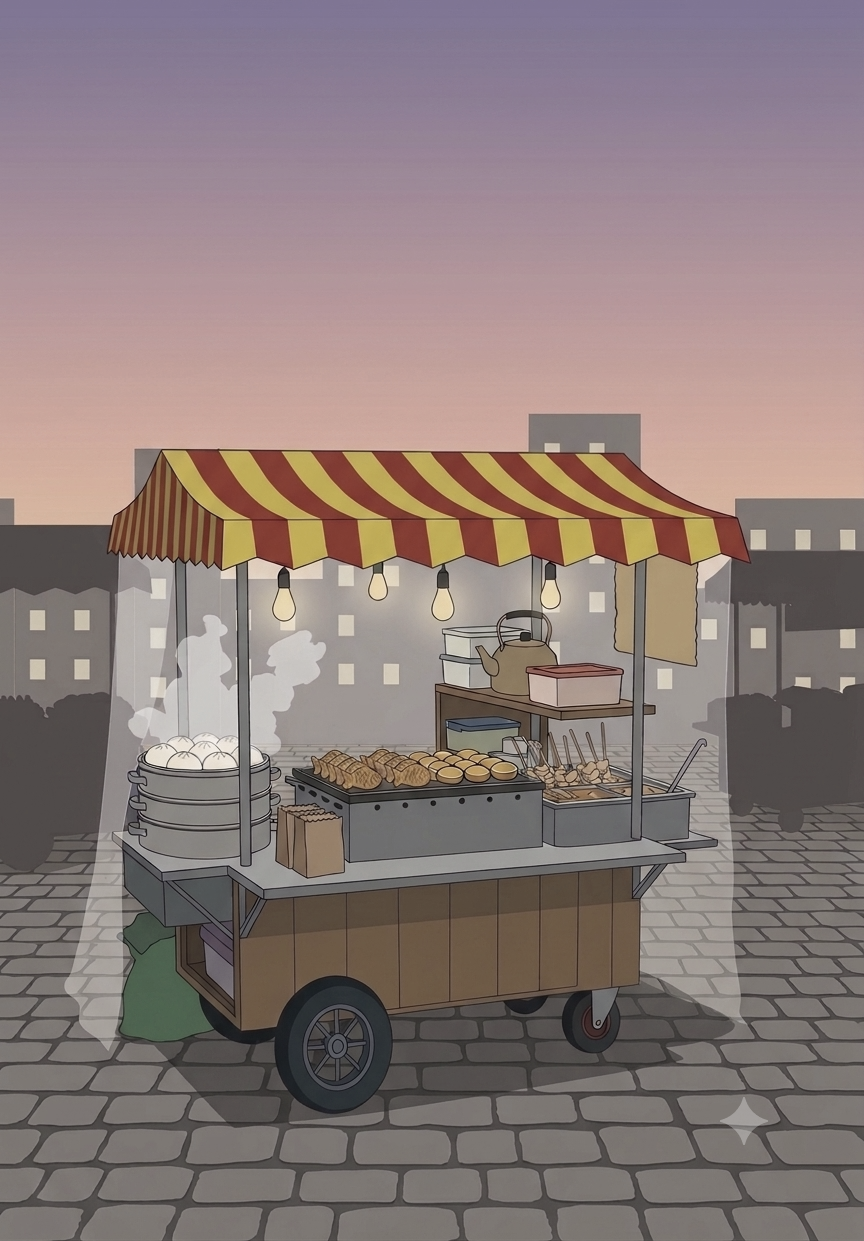
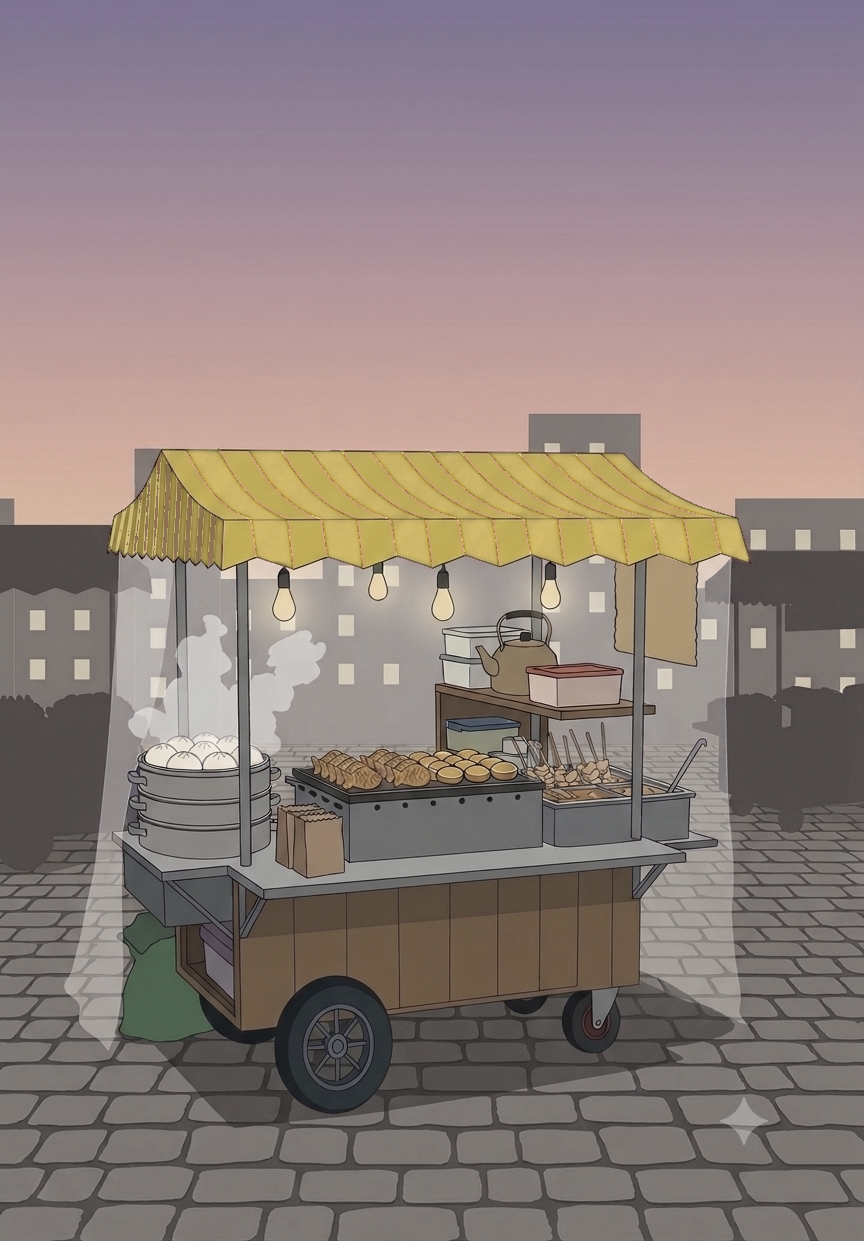
홈 문구·장면 손질
- 말풍선 문구를 사용자 시점으로 교체
  "마무리하고 갈래요?"        → "맛있는 냄새! 먹을까?"
  "퇴근하고 맛있는 냄새가..." → "하나 먹어야지~" (여러 단계를 거치며 오늘의 나를 기록하기)
  "오늘 하루 이렇게..."       → "아니야, 다음에 먹을래!" (간단하게 하루 정리하기)
  버튼에 보조문구 줄을 새로 둠. 강조 버튼에서는 투명도를 주면 대비가
  3.91 로 떨어져서 불투명하게 뒀다
- 사장님 제거. Owner.tsx 와 --owner-* 변수·CSS 삭제.
  말풍선 꼬리는 --bubble-tail-left 로 따로 뺐다
- 천막을 빨강·노랑 줄무늬에서 전체 노랑으로.
  tools/recolor-awning.mjs — 색조만 바꾸면 어두운 겨자색이 되어 줄무늬가 남으므로
  밝기도 노란 줄무늬 평균에 맞춰 끌어올리되 픽셀별 차이는 비율로 유지한다.
  천막 구간(y 440~575)만 건드려서 아래쪽 빨간 보관함·바퀴는 그대로 둔다
- '차림표' → '메뉴판'

Changed region(s): [[0.125, 0.3368, 0.875, 0.4593]]

diff --git a/src/styles/home-scene.css b/src/styles/home-scene.css
@@ -1,28 +1,21 @@
 /* =======================================================================
-   노점 홈 — 사진 배경 + 사장님 + 말풍선 + 차림표 시트
+   노점 홈 — 사진 배경 + 사장님 + 말풍선 + 메뉴판 시트
 
-   위치를 바꾸려면 아래 --owner-* / --steam-* / --menu-* 숫자만 고치면 된다.
+   위치를 바꾸려면 아래 --steam-* / --menu-* / --bubble-* 숫자만 고치면 된다.
    ======================================================================= */
 
 .stall-photo {
-  /* 배경 이미지(864x1241) 기준으로 잡은 값.
-     가판대 윗면 = 세로 62% 지점, 천막 아래 = 45% 지점.
-     그 사이 17% 안에 상체가 들어가야 비율이 맞는다. */
-  --owner-left: 46%; /* 왼쪽에서 — 붕어빵 틀 뒤 (cover 가 좌우 14%씩 자른 뒤 기준) */
-  --owner-bottom: 38%; /* 아래에서 — 가판대 윗면 선 */
-  --owner-width: 17%; /* 어깨 너비. 수레 폭의 1/4 정도 */
-  --owner-visible: 13%; /* 가판대 위로 드러나는 높이 (머리~허리) */
-
   --steam-left: 11%; /* 찜기(호빵) 위치 */
   --steam-bottom: 40%;
   --steam-width: 58px;
   --steam-height: 130px;
   --steam-opacity: 0.4;
 
-  --menu-right: 6%; /* 차림표 버튼 */
+  --menu-right: 6%; /* 메뉴판 버튼 */
   --menu-bottom: 15%;
 
-  --bubble-top: 5%; /* 말풍선 위 모서리 — 하늘 영역이라 노점을 안 가린다 */
+  --bubble-top: 5%; /* 말풍선 위 모서리 */
+  --bubble-tail-left: 46%; /* 말풍선 꼬리가 가리키는 가로 위치 */
 
   /* 말풍선·시트 바탕. 사진 위에서도 읽히도록 불투명한 크림색 */
   --bubble-bg: #fdfaf3;
@@ -97,50 +90,6 @@
   }
 }
 
-/* --- 사장님 --- */
-
-.owner {
-  position: absolute;
-  left: var(--owner-left);
-  bottom: var(--owner-bottom);
-  width: var(--owner-width);
-  height: var(--owner-visible);
-  transform: translateX(-50%);
-  pointer-events: none;
-  /* 가판대에 가려 상체만 보이게 아래를 잘라낸다 */
-  overflow: hidden;
-}
-
-.owner-inner {
-  width: 100%;
-}
-
-.owner img {
-  display: block;
-  width: 100%;
-  height: auto;
-}
-
-.owner-figure {
-  display: block;
-  width: 100%;
-  height: 100%;
-}
-
-.owner-breathing .owner-inner {
-  animation: owner-breathe 4.5s ease-in-out infinite;
-}
-
-@keyframes owner-breathe {
-  0%,
-  100% {
-    transform: translateY(0);
-  }
-  50% {
-    transform: translateY(-2px);
-  }
-}
-
 /* --- 화면 위 내용 --- */
 
 .stall-photo-content {
@@ -171,7 +120,7 @@
   content: '';
   position: absolute;
   /* 꼬리가 사장님을 가리키도록 같은 가로 위치를 쓴다 */
-  left: var(--owner-left);
+  left: var(--bubble-tail-left);
   bottom: -11px;
   width: 20px;
   height: 20px;
@@ -223,6 +172,19 @@
   cursor: pointer;
 }
 
+.bubble-btn-sub {
+  display: block;
+  font-size: 0.8125rem;
+  line-height: 1.4;
+  color: var(--text-muted);
+  margin-top: 3px;
+}
+
+/* 투명도를 주면 대비가 3.91 로 떨어진다. 불투명하게 둔다 */
+.bubble-btn-primary .bubble-btn-sub {
+  color: var(--accent-text);
+}
+
 .bubble-btn:active {
   background: var(--surface-alt);
 }
@@ -234,7 +196,7 @@
   font-weight: 600;
 }
 
-/* --- 차림표 버튼 --- */
+/* --- 메뉴판 버튼 --- */
 
 .menu-tag {
   position: absolute;
@@ -275,7 +237,7 @@
   background: #fff1e0;
 }
 
-/* --- 차림표 시트 --- */
+/* --- 메뉴판 시트 --- */
 
 .sheet-backdrop {
   position: absolute;
@@ -388,7 +350,6 @@
 }
 
 @media (prefers-reduced-motion: reduce) {
-  .owner-breathing .owner-inner,
   .stall-photo-steam path {
     animation: none;
   }

diff --git a/src/screens/home/SpeechBubble.tsx b/src/screens/home/SpeechBubble.tsx
@@ -1,15 +1,15 @@
 interface Props {
-  /** 오후 5시 이후인가 — 문구와 버튼 순서가 바뀐다 */
+  /** 오후 5시 이후인가 — 버튼 순서와 강조가 바뀐다 */
   evening: boolean;
   onCheckIn: () => void;
   onJournal: () => void;
 }
 
 /**
- * 사장님 머리 위 말풍선.
- * 대사는 아래 두 개로 고정이다. 입력을 받거나 대화가 이어지지 않는다.
+ * 노점 앞에서 떠오르는 생각과 두 가지 선택.
+ * 문구는 아래 고정값만 쓴다. 입력을 받거나 대화가 이어지지 않는다.
  *
- * 문구를 고를 때 명세 2절 원칙 5(위로 문구 금지)를 지킨다.
+ * 명세 2절 원칙 5(위로 문구 금지)를 지킨다.
  * "오늘 고생했어요" 같은 말은 쓰지 않는다 — 앱이 사용자를 평가하는 말로 읽힌다.
  */
 export function SpeechBubble({ evening, onCheckIn, onJournal }: Props) {
@@ -22,7 +22,10 @@ export function SpeechBubble({ evening, onCheckIn, onJournal }: Props) {
         onCheckIn();
       }}
     >
-      퇴근하고 맛있는 냄새가 나서 왔어요
+      하나 먹어야지~
+      <span className="bubble-btn-sub">
+        여러 단계를 거치며 오늘의 나를 기록하기
+      </span>
     </button>
   );
 
@@ -35,13 +38,14 @@ export function SpeechBubble({ evening, onCheckIn, onJournal }: Props) {
         onJournal();
       }}
     >
-      오늘 하루 이렇게 마무리하네요
+      아니야, 다음에 먹을래!
+      <span className="bubble-btn-sub">간단하게 하루 정리하기</span>
     </button>
   );
 
   return (
     <div className="bubble">
-      <p className="bubble-line">{evening ? '마무리하고 갈래요?' : '어서 와요~'}</p>
+      <p className="bubble-line">맛있는 냄새! 먹을까?</p>
       <div className="bubble-actions">
         {evening ? [journal, checkIn] : [checkIn, journal]}
       </div>

diff --git a/src/screens/Home.tsx b/src/screens/Home.tsx
@@ -20,8 +20,8 @@ const BUBBLE_DELAY_MS = 1000;
 
 /**
  * 명세 9절 화면 2 — 노점 홈.
- * 장면이 화면을 채우고, 주된 두 가지 행동은 사장님 말풍선 안에 있다.
- * 나머지 메뉴는 차림표 시트로 내려간다.
+ * 장면이 화면을 채우고, 주된 두 가지 행동은 말풍선 안에 있다.
+ * 나머지 메뉴는 메뉴판 시트로 내려간다.
  */
 export function Home({
   onStartCheckIn,
@@ -35,7 +35,7 @@ export function Home({
   const [bubbleShown, setBubbleShown] = useState(false);
   const [sheetOpen, setSheetOpen] = useState(false);
 
-  // 명세 7.2 — 자원 제안 카드가 뜰 주인지. 차림표에 작은 표시를 붙인다
+  // 명세 7.2 — 자원 제안 카드가 뜰 주인지. 메뉴판에 작은 표시를 붙인다
   const escalated = useMemo(
     () => evaluateEscalation(loadCheckIns()).triggered,
     [],
@@ -71,9 +71,9 @@ export function Home({
             e.stopPropagation();
             setSheetOpen(true);
           }}
-          aria-label={`차림표${escalated ? ' — 살펴볼 것이 있어요' : ''}`}
+          aria-label={`메뉴판${escalated ? ' — 살펴볼 것이 있어요' : ''}`}
         >
-          차림표
+          메뉴판
           {escalated ? <span className="menu-dot" /> : null}
         </button>
 

diff --git a/src/screens/home/MenuSheet.tsx b/src/screens/home/MenuSheet.tsx
@@ -12,7 +12,7 @@ interface Props {
   escalated?: boolean;
 }
 
-/** 가판대 옆 나무 차림표를 누르면 아래에서 올라오는 시트 */
+/** 가판대 옆 나무 메뉴판을 누르면 아래에서 올라오는 시트 */
 export function MenuSheet({
   open,
   onClose,
@@ -45,12 +45,12 @@ export function MenuSheet({
         className={`sheet${open ? ' is-open' : ''}`}
         role="dialog"
         aria-modal="true"
-        aria-label="차림표"
+        aria-label="메뉴판"
         aria-hidden={!open}
         onClick={(e) => e.stopPropagation()}
       >
         <div className="sheet-grip" aria-hidden="true" />
-        <h2 className="sheet-title">차림표</h2>
+        <h2 className="sheet-title">메뉴판</h2>
 
         {items.map((it) => (
           <button

diff --git a/src/scenes/StallPhotoScene.tsx b/src/scenes/StallPhotoScene.tsx
@@ -1,5 +1,4 @@
 import { useState } from 'react';
-import { Owner } from './Owner';
 import { StallScene } from './StallScene';
 
 interface Props {
@@ -47,7 +46,6 @@ export function StallPhotoScene({ lit, children }: Props) {
         </svg>
       </div>
 
-      <Owner />
 
       <div className="stall-photo-content">{children}</div>
     </div>
